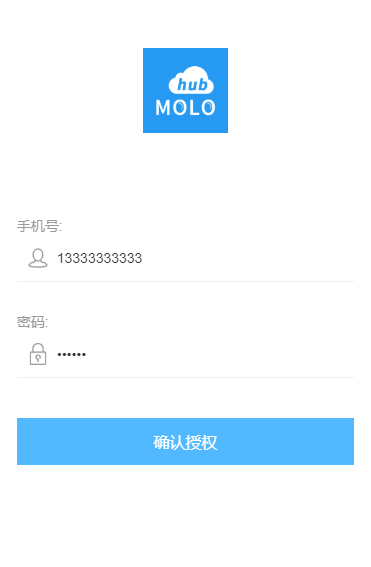
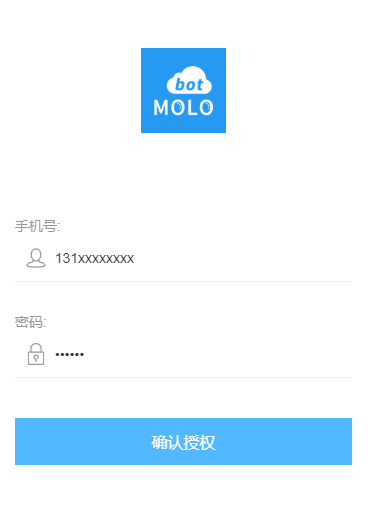
update readme

diff --git a/README.md b/README.md
@@ -102,7 +102,7 @@ return self._phone_sign
 
 **【One-key install】**
 
-If you are Linux-based user, run the command below to install molohub automatically:
+If you are Linux-based user, run the command below to install molobot automatically:
 
 ```shell
 python <(curl "https://raw.githubusercontent.com/haoctopus/molobot/master/auto_install.py" -s -N)
@@ -160,7 +160,7 @@ molobot component：<https://github.com/haoctopus/molobot>
 
 **【Contact us】**
 
-Please contact us if you have any questions about installation and using molohub. We will respond as soon as we see the feedback.
+Please contact us if you have any questions about installation and using molobot. We will respond as soon as we see the feedback.
 
 Email: octopus201806@gmail.com
 
